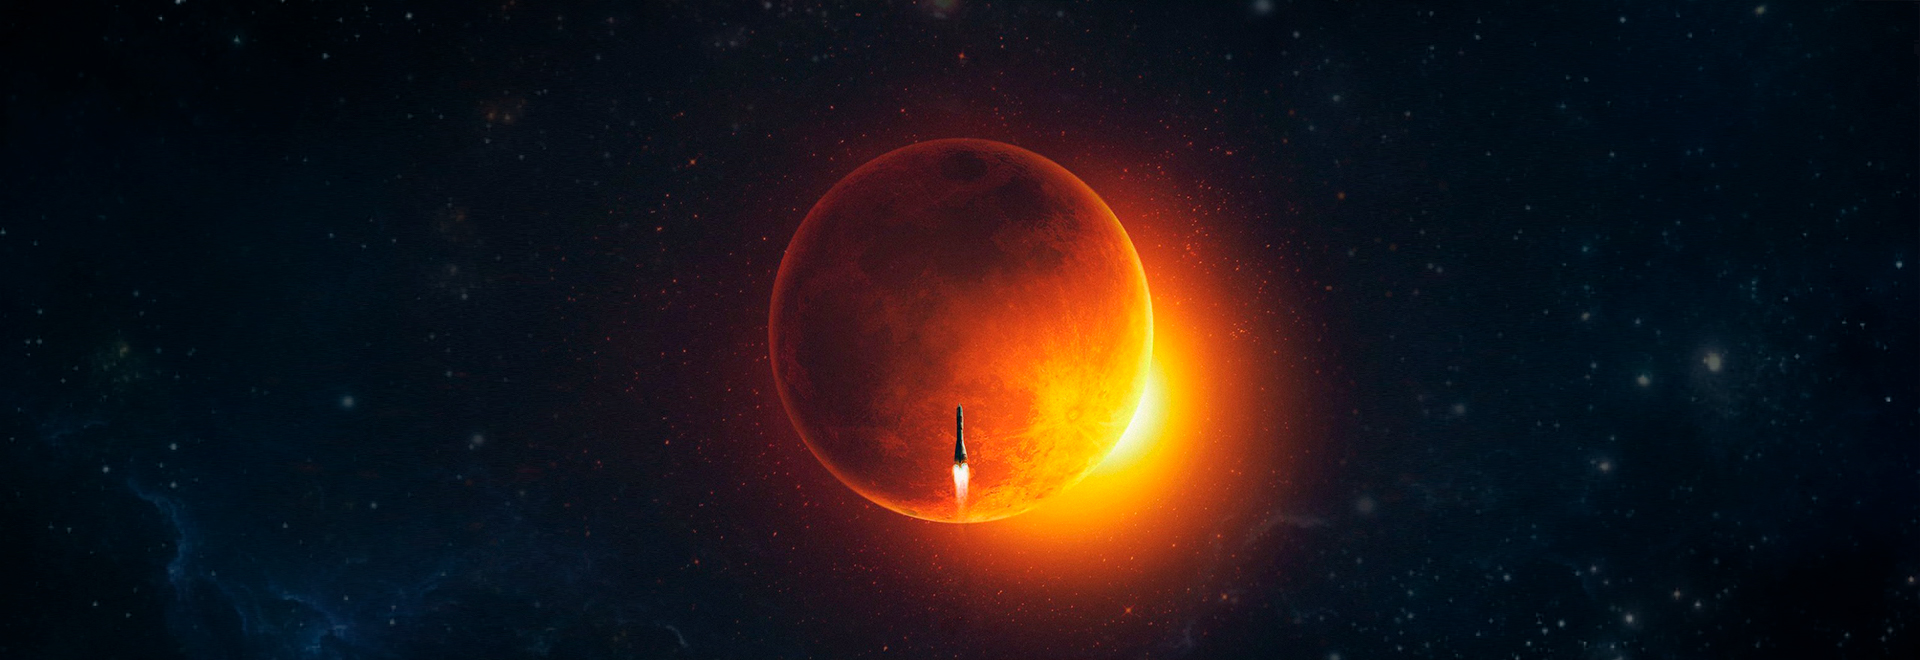
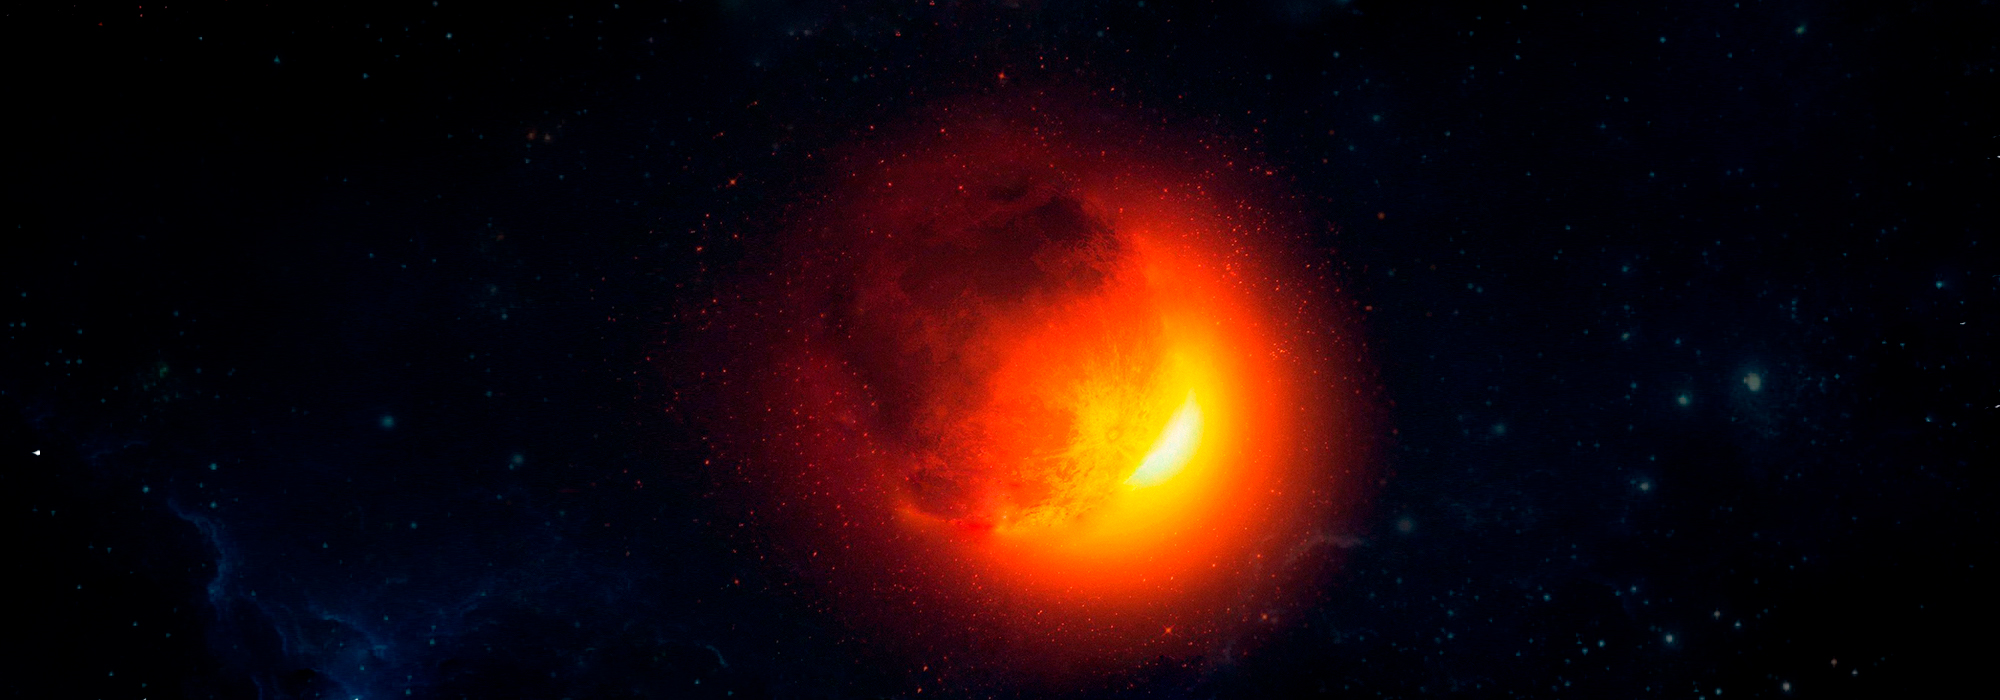
feat: add paralax

diff --git a/src/asset/pages/main/index.html b/src/asset/pages/main/index.html
@@ -1,32 +1,50 @@
 <!DOCTYPE html>
 <html lang="en">
+
 <head>
   <meta charset="UTF-8">
   <meta http-equiv="X-UA-Compatible" content="IE=edge">
   <meta name="viewport" content="width=device-width, initial-scale=1.0">
   <title>Space-X</title>
 </head>
-<body class="page">
-  <header class="header">
-    <div class="header__wrapper">
-      <a class="header__link header__link_logo">
-        <img class="header__logo" src="<%=require('../../images/logo.png')%>"
-         alt="Логотип Space-X">
-      </a>
-      <nav class="header__nav">
-        <ul class="header__list">
-          <li><a class="header__link" href="#">Главная</a></li>
-          <li><a class="header__link" href="#">Технология</a></li>
-          <li><a class="header__link" href="#">График полетов</a></li>
-          <li><a class="header__link" href="#">Гарантии</a></li>
-          <li><a class="header__link" href="#">О компании</a></li>
-          <li><a class="header__link" href="#">Контакты</a></li>
-        </ul>
-      </nav>
-    </div>
-  </header>
-<main>
 
-</main>
+<body class="page">
+  <div class="mouse-parallax">
+    <div class="mouse-parallax__bg"></div>
+    <div class="mouse-parallax__mars"></div>
+    <span class="mouse-parallax__line"></span>
+
+    <div class="mouse-parallax__ship"></div>
+    <div class="mouse-parallax__fix-container">
+      <header class="header">
+        <div class="header__wrapper">
+          <a class="header__link header__link_logo">
+            <img class="header__logo" src="<%=require('../../images/logo.png')%>" alt="Логотип Space-X">
+          </a>
+          <nav class="header__nav">
+            <ul class="header__list">
+              <li><a class="header__link" href="#">Главная</a></li>
+              <li><a class="header__link" href="#">Технология</a></li>
+              <li><a class="header__link" href="#">График полетов</a></li>
+              <li><a class="header__link" href="#">Гарантии</a></li>
+              <li><a class="header__link" href="#">О компании</a></li>
+              <li><a class="header__link" href="#">Контакты</a></li>
+            </ul>
+          </nav>
+        </div>
+    </div>
+    </header>
+  </div>
+
+
+
+
+  <main>
+
+  </main>
+
+
+
 </body>
+
 </html>

diff --git a/src/asset/pages/main/index.scss b/src/asset/pages/main/index.scss
@@ -23,7 +23,7 @@ $text-color-hover: #b1b1b1;
   font-family: $font-stack;
   font-size: $font-size;
   color: $text-color-light;
-  background: url('../../images/background.jpg');
+
   width: 100%;
   height: 100vh;
   background-attachment: fixed;
@@ -87,6 +87,7 @@ $text-color-hover: #b1b1b1;
       transition: .5s;
       position: relative;
 
+
       &:hover {
         color: $text-color-hover;
       }
@@ -103,4 +104,65 @@ $text-color-hover: #b1b1b1;
       }
     }
   }
+}
+
+.mouse-parallax {
+    position: absolute;
+    top: 0;
+    left: 0;
+    right: 0;
+    bottom: 0;
+    overflow: hidden;
+}
+.mouse-parallax__bg,
+.mouse-parallax__mars,
+.mouse-parallax__ship,
+.mouse-parallax__fix-container {
+    position: absolute;
+    top: 0;
+    right: 0;
+    bottom: 0;
+    left: 0;
+    width: 100%;
+    height: 100%;
+    transition: all 0.2s ease-out;  
+    background-image: url('../../images/background.jpg');
+    background-position: center center;
+    background-repeat: no-repeat;
+    background-size: cover;
+    z-index: 1;
+  
+}
+
+
+.mouse-parallax__mars {
+  background-image: url('../../images/mars_big.png');  
+  z-index: 2;
+  width: 100%;
+  height: 100%;
+
+}
+.mouse-parallax__ship {
+  background-image: url('../../images/ship.png') ;  
+  z-index: 3;
+  width: 100%;
+  height: 100%;
+  transition: all 11s ease-out;  
+  transform: scale(1.2);
+
+}
+.mouse-parallax__line{
+ background: url('../../images/line.png') no-repeat;
+  position: absolute;
+  top: calc(50% + 50px);
+  left: calc(50% - 405px);
+  height: 100%;
+  width: 100%;
+  z-index: 55;
+  transition: all 11s ease-out; 
+}
+.mouse-parallax__fix-container {
+  background-image:none;
+  background: transparent;
+  z-index: 4;
 }

diff --git a/src/index.js b/src/index.js
@@ -1,3 +1,34 @@
 import './normalize.css'
 import './asset/fonts/fonts.css'
 import './asset/pages/main/index.scss'
+
+let bg = document.querySelector('.mouse-parallax__bg');
+let line = document.querySelector('.mouse-parallax__line');
+let ship = document.querySelector('.mouse-parallax__ship');
+let isTransform = false;
+
+const movieCursor= (e)=>{
+   let x = e.clientX / window.innerWidth;
+let y = e.clientY / window.innerHeight;
+let h = Math.max(y, x)
+const g = (h) => {
+  if (h > 0.3) {
+   return 1 - h
+  } else { return h, g(h) }
+}
+
+
+bg.style.transform = `translate( ${x * 15}px, ${y * 10}px)`;
+if(isTransform === false) {
+ console.log('change')
+ ship.style.transform = `scale(.7) rotateX(40deg)`;
+ line.style.transform = `translateY(-30px)`;
+ isTransform= true}
+}
+window.addEventListener('touchmove', function (e) {
+  movieCursor(e)
+});
+window.addEventListener('mousemove', function (e) {
+  
+  movieCursor(e)
+});
